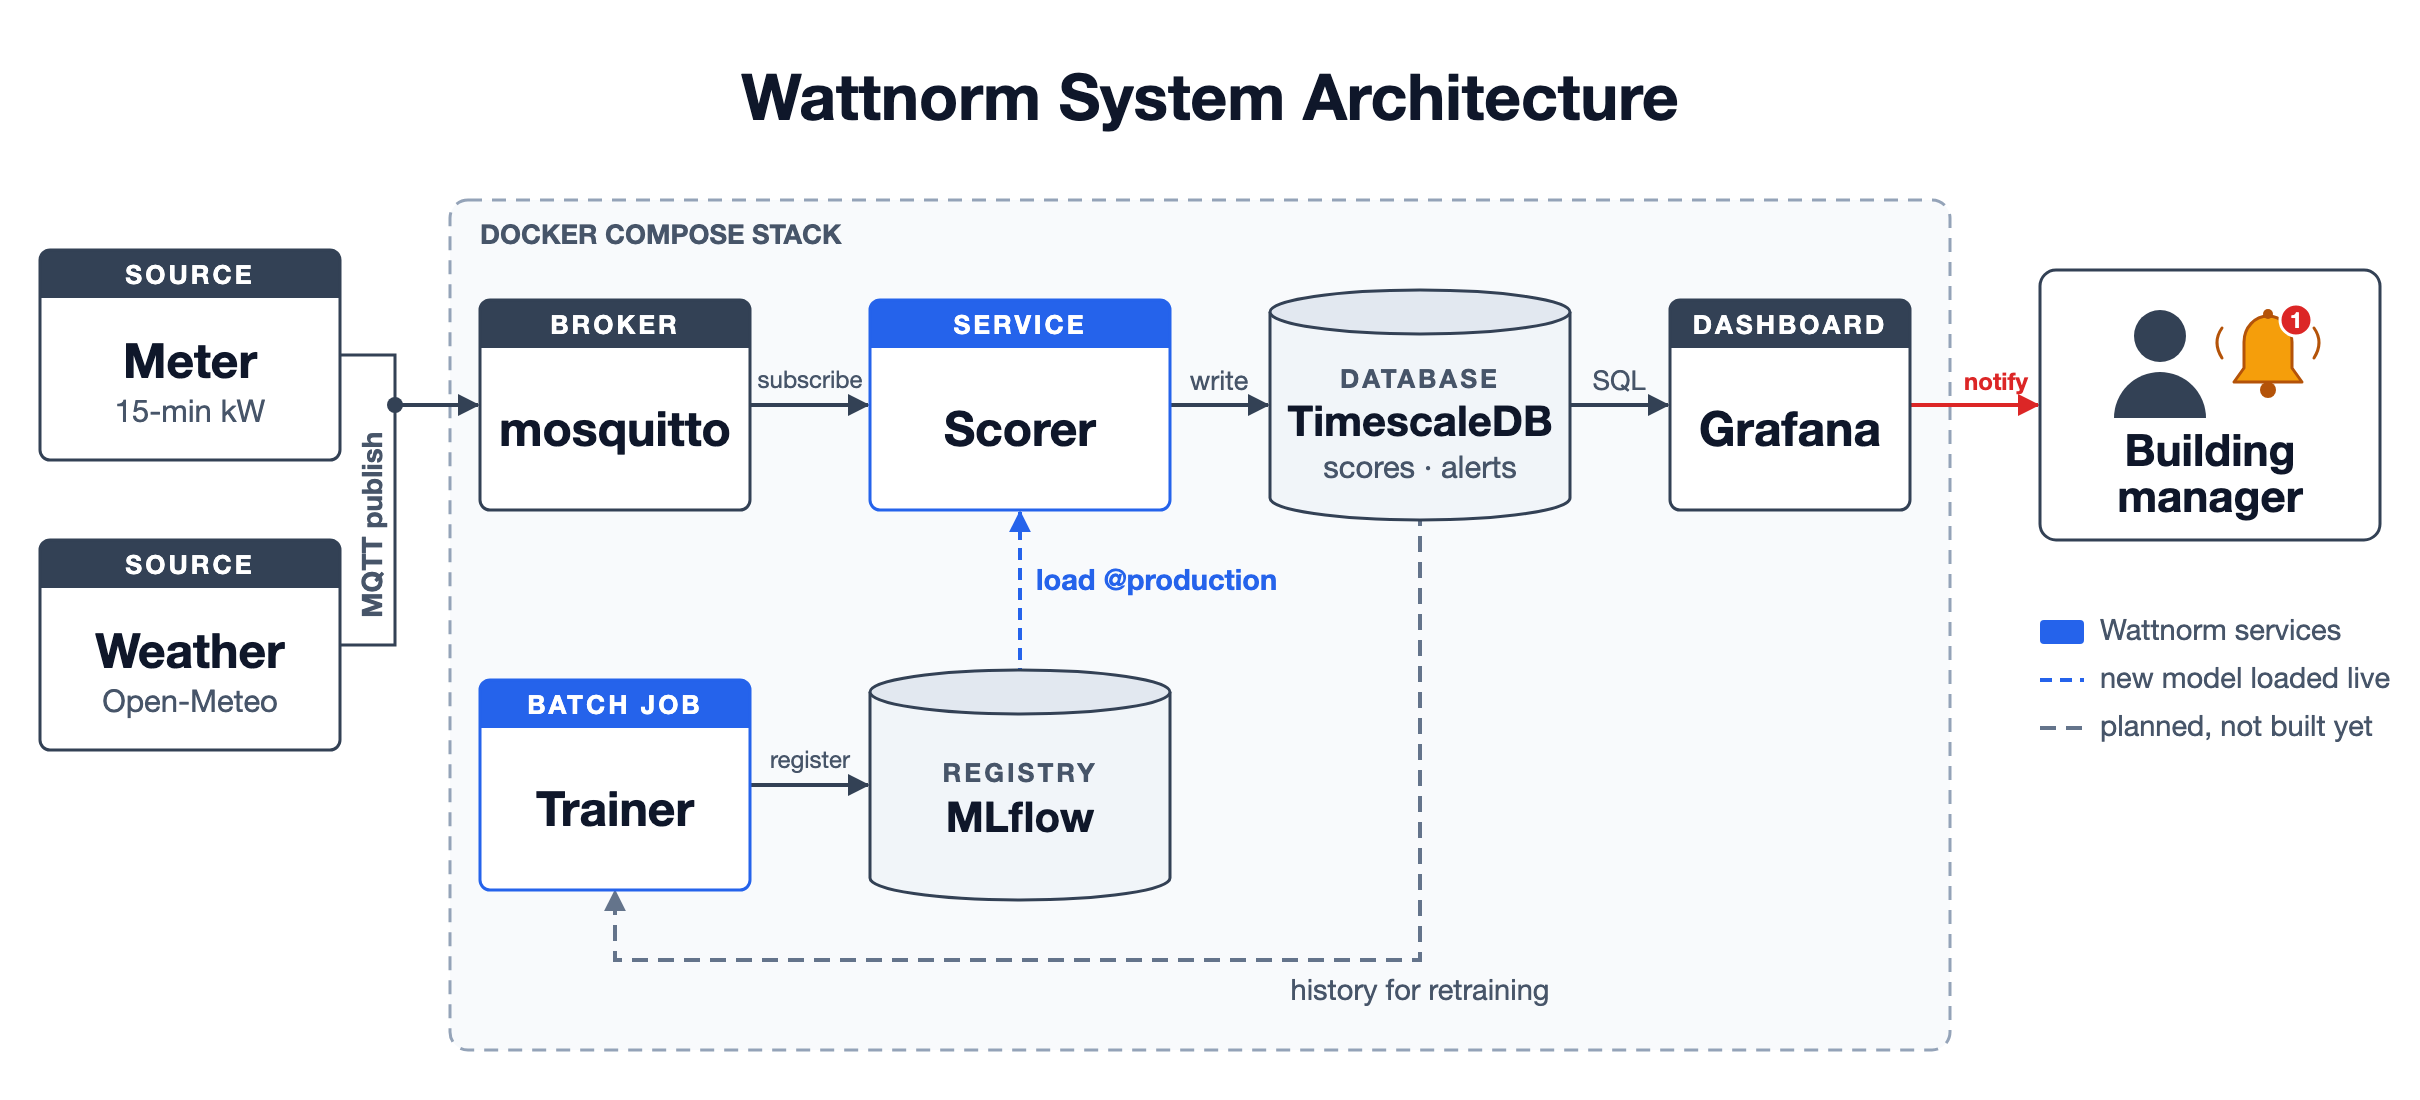
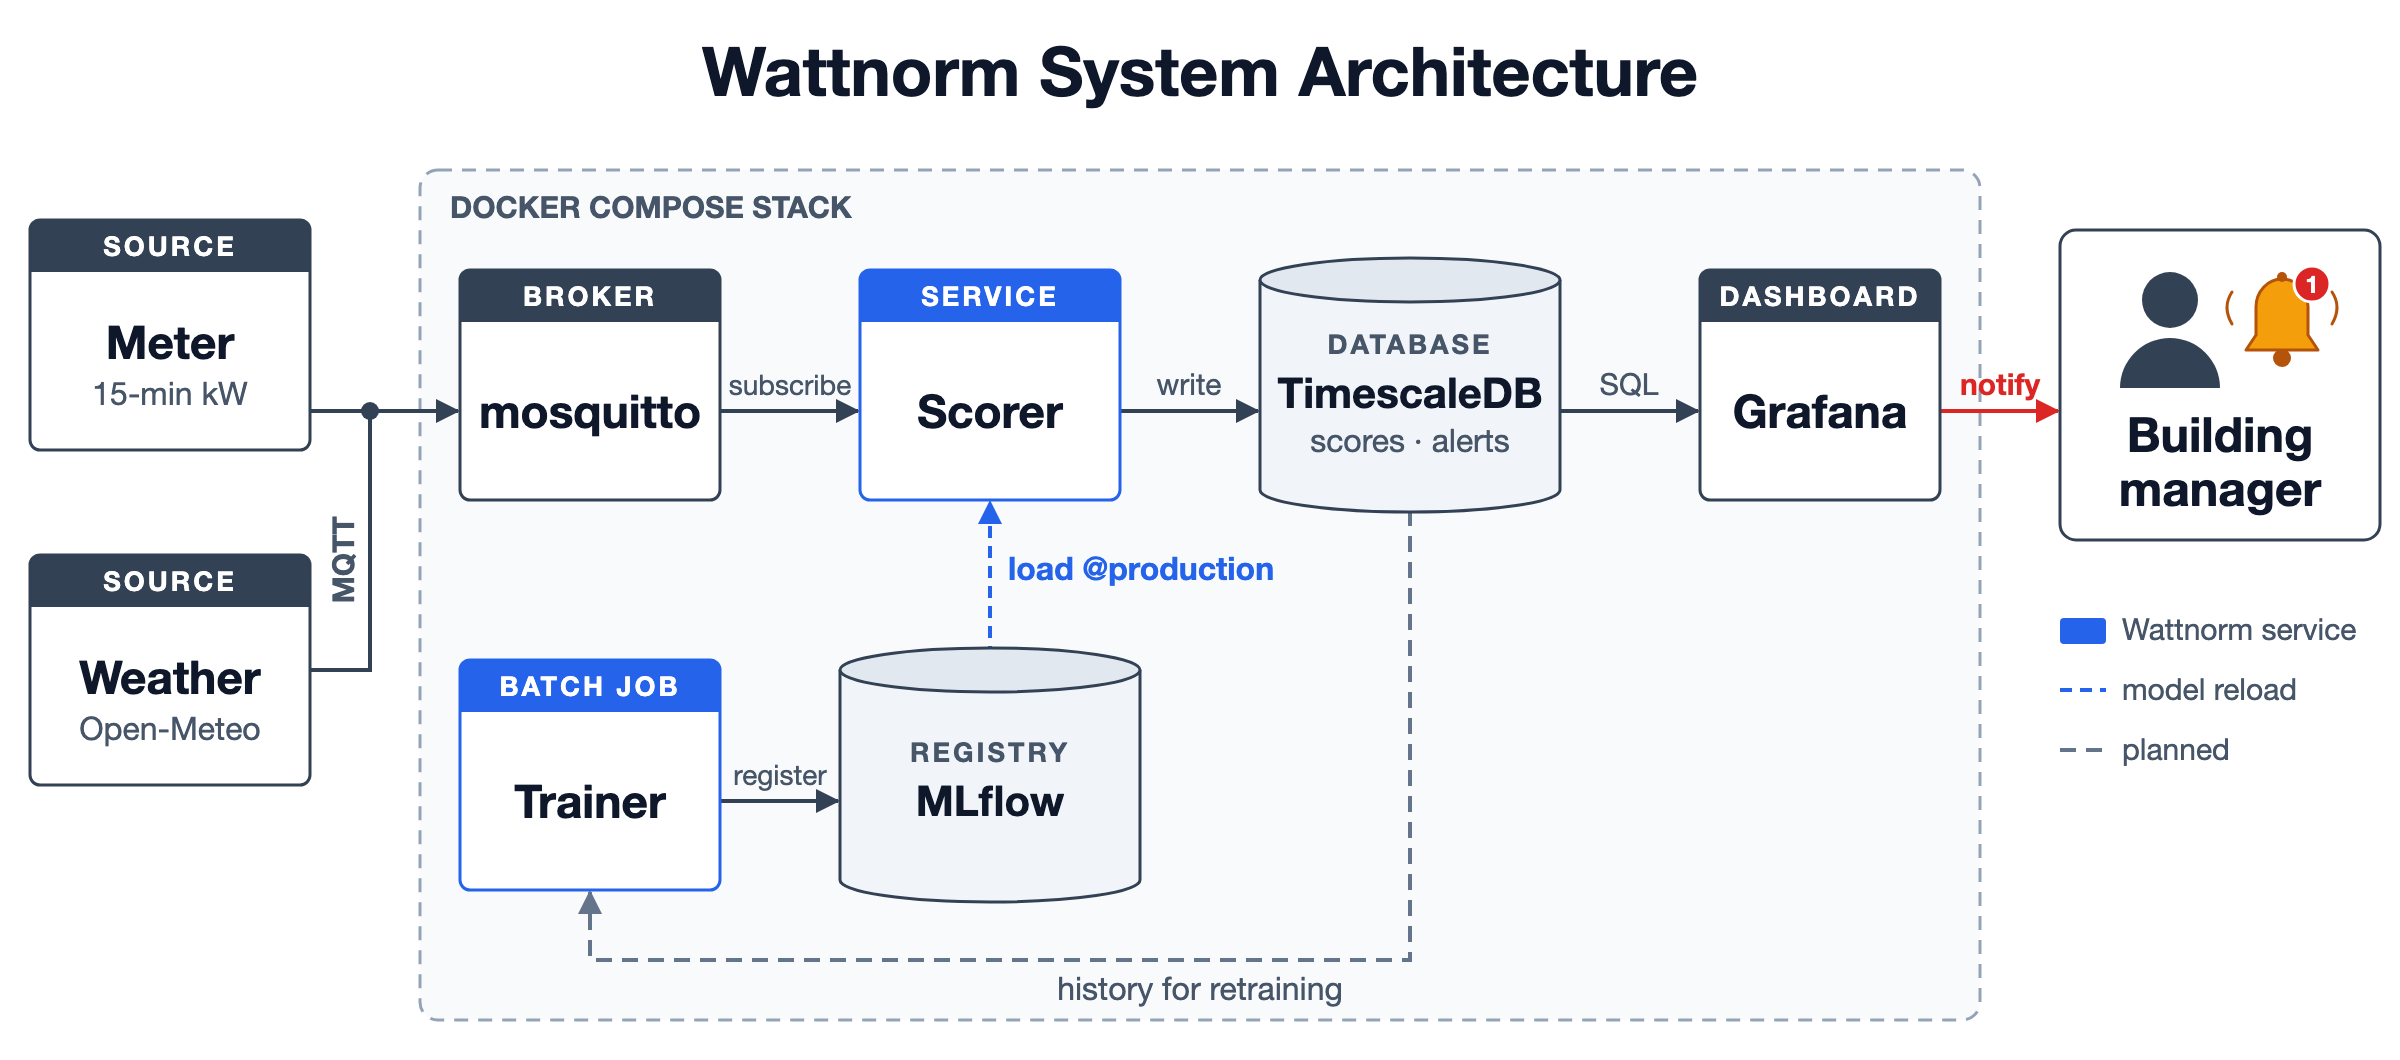
docs: streamline README, larger architecture diagram text

diff --git a/README.md b/README.md
@@ -1,83 +1,33 @@
 # Wattnorm — real-time contextual energy anomaly detection for buildings
 
-Buildings account for roughly a third of global energy use, and a large share of that is wasted
-quietly: an air-handling unit left running over a weekend, a lighting schedule that never switched
-back after a holiday, a chiller cycling against a failed sensor. A meter records all of it, but a
-raw reading cannot say whether 280 kW is a problem — at 2 p.m. on a hot July weekday it is normal,
-at 2 a.m. on a Sunday in April it is not. An anomaly is a reading that is unusual *for its context*:
-the time, the day, the season, the weather.
+Buildings account for roughly a third of global energy use, and much of it is wasted quietly: an
+air-handling unit left running over a weekend, a lighting schedule that never switched back after a
+holiday, a chiller cycling against a failed sensor. A raw meter reading cannot say whether 280 kW is
+a problem — at 2 p.m. on a hot July weekday it is normal, at 2 a.m. on a Sunday in April it is not.
 
-Wattnorm is a complete, deployable system built on that idea (the Python package is `smartbuilding`), developed on six years of
-15-minute electricity data from a university research building. It learns what the building
-*should* draw for the current time and weather, scores every meter reading against that
-expectation as it arrives, and raises direction-aware alerts on a Grafana dashboard — **too high =
-waste, too low = failure** — with the avoidable energy translated to CO₂e and cost so that a
-building manager, not a data scientist, can act on it. Historical data is replayed through the
-live pipeline today; a real meter publishes the same message format tomorrow.
-
-It builds on work from my master's research at Western University, published as
-[*An ensemble learning framework for anomaly detection in building energy consumption*](https://www.sciencedirect.com/science/article/pii/S0378778817306904)
-(Araya, Grolinger, ElYamany, Capretz and Bitsuamlak, *Energy and Buildings* 144, 2017). That paper
-introduced CCAD-SW, a pattern-based classifier that scores overlapping sliding windows of
-consumption with an autoencoder, and combined it with two prediction-based classifiers (support
-vector regression and random forest) in a majority-vote ensemble that, on real consumption data from
-a building in Brampton, Ontario, raised the sensitivity of CCAD-SW by 3.6 % and cut its false-alarm
-rate by 2.7 %. This system takes the prediction-based branch of that framework as its core
-and adds what a paper does not need but a deployment does: calibrated bands, adaptation to a
-building that changes, a promotion gate, and a dashboard.
-
-The methodology, data work, evaluation and the defects found along the way are written up in full
-in [`docs/writeup.md`](docs/writeup.md).
+Wattnorm learns what a building *should* draw for the current time and weather, scores every
+15-minute meter reading against that expectation as it arrives, and raises direction-aware alerts on
+a Grafana dashboard — **too high = waste, too low = failure** — with the avoidable energy expressed
+in kWh, CO₂e and cost so that a building manager, not a data scientist, can act on it. It was
+developed on six years of data from a university research building. Historical data is replayed
+through the live pipeline today; a real meter publishes the same message format tomorrow.
 
 <img src="docs/img/dashboard.png" alt="Building Energy Anomalies dashboard — two weeks of real meter data, January 2020" width="100%">
 
-*Real 15-min meter data replayed through the live pipeline (no synthetic values). Blue = metered demand;
-orange dashed = expected demand for that time and weather, adjusted for the building's recent level;
-shaded band = the 90 % normal range; red = alerts. Below: the residual in σ and the CUSUM that
-catches sustained deviations.*
+*Two weeks of real meter data replayed through the live pipeline. Blue: metered demand · orange
+dashed: expected demand · shaded: 90 % normal range · red: alerts. Lower panels: residual in σ and
+the CUSUM that catches sustained deviations.*
 
 <img src="docs/img/tiles.png" alt="Sustainability tiles" width="100%">
 
-*Excess energy recorded on HIGH alerts that started in the selected range, times the grid emission
-factor and tariff (both editable on the dashboard — the defaults are placeholders). Readings outside an
-alert are not counted, so a normal building reads zero.*
+*Excess energy on HIGH alerts, converted with the grid emission factor and tariff (both editable on
+the dashboard; the defaults are placeholders). A normal building reads zero.*
 
-## How it works
+## Architecture
 
-<img src="docs/img/architecture.svg" alt="Architecture — meter and weather over MQTT into the scorer, TimescaleDB and Grafana; trainer and MLflow registry feed the model" width="100%">
+<img src="docs/img/architecture.svg" alt="Wattnorm system architecture — meter and weather over MQTT into the scorer, TimescaleDB and Grafana; trainer and MLflow registry supply the model" width="100%">
 
-- **Model** — LightGBM quantile regression (q05/q50/q95) on calendar (cyclic time-of-day, weekday,
-  day-of-year, holidays) and weather (temperature, humidity, wind, pressure, heating/cooling degrees).
-  No demand lags: the model answers *what should this building draw now*, so a sustained anomaly
-  never becomes "normal" within hours.
-- **Band** — one scalar calibration so the band covers 90 % of ordinary readings; a slow level
-  tracker (3-day half-life, robust to anomalies) follows genuine regime changes.
-- **Rules** — `SPIKE` (one reading > 5σ), `SUSTAINED_HIGH/LOW` (CUSUM), `STUCK` (2 h identical).
-  Each alert carries observed vs expected kW, excess kWh → CO₂e/$, and the top-3 SHAP drivers of the
-  expectation.
-- **Evaluation without labels** — six anomaly types injected into a held-out year, event-level
-  recall / false alarms per week / time-to-detect, against a seasonal-naive baseline sharing the
-  same rules. Splits are strictly temporal: train 2016–17 · calibrate 2018 · test 2019 · replay
-  2020-01 → 2021-05.
-- **Operations** — MLflow registry with a promotion gate, scorer hot-swap, trailing-window retrain
-  (`make retrain`, cron-able), one Grafana dashboard whose health row is plain SQL on the `scores`
-  table. `/health` reports the model version and the rules it is running.
-
-## Terms used above
-
-- **Quantile regression** — a model that predicts a chosen percentile of demand (here the 5th, 50th and 95th) instead of only the average, so it gives a range as well as a central estimate.
-- **Band / coverage** — the range between the 5th and 95th percentile predictions, scaled so that 90 % of ordinary readings fall inside it; coverage is the share that actually does.
-- **Residual and σ** — the gap between the metered and expected demand, expressed in units of the band's half-width so that "3σ" means the same thing in summer and winter.
-- **Level tracker** — a slow-moving estimate of how far the building's baseline has shifted from the model's expectation, so a permanent change in occupancy does not look like a permanent anomaly.
-- **CUSUM** — a running sum of the residual that grows while demand stays on one side of expectation and resets otherwise; it catches small but persistent deviations that no single reading would.
-- **SHAP drivers** — the features (hour, temperature, weekday …) that contributed most to the expected value for that reading, used to explain each alert.
-- **Seasonal-naive baseline** — the simplest competitor: expected demand equals the reading one week earlier at the same time.
-- **Recall / false alarms per week** — the share of injected anomalies the detector catches, and how many alerts it raises on data with no anomaly injected.
-- **MQTT** — a lightweight publish/subscribe messaging protocol widely used by meters and IoT gateways.
-- **TimescaleDB** — PostgreSQL with time-series extensions, so Grafana queries it with plain SQL.
-- **MLflow registry / hot-swap** — MLflow stores each trained model with its metrics under a version and an alias (`@staging`, `@production`); the scorer can load a newly promoted version without restarting.
-
-## Run it
+## Quick start
 
 ```
 make setup      # uv sync + pre-commit
@@ -91,8 +41,17 @@ make retrain    # trailing-window retrain with promotion gate  (AS_OF=YYYY-MM-DD
 make figures    # regenerate docs/img/fig*.png and numbers.json from the stack's model and database
 ```
 
-Grafana http://localhost:3000 (view without login; admin/admin to edit) · MLflow http://localhost:5001 ·
-scorer http://localhost:8001/health
+| Service | URL |
+|---|---|
+| Grafana | http://localhost:3000 (view without login; admin/admin to edit) |
+| MLflow | http://localhost:5001 |
+| Scorer health | http://localhost:8001/health |
+
+## Connecting a real meter
+
+Publish `{"meter_id": "...", "ts": "<ISO-8601 with offset>", "kw": <float>}` to
+`building/<meter_id>/demand` (QoS 1) and weather to `weather/<station_id>/obs`. Nothing downstream
+changes; the broker and database are `.env` settings.
 
 ## Data
 
@@ -103,14 +62,26 @@ features are computed in `America/New_York`. The data are not redistributed with
 
 > Cornell University, Facilities and Campus Services — Energy and Sustainability. *Energy Management and Control System (EMCS) Portal*, Clark Hall electric demand, 15-minute interval, January 2015 – May 2021. https://portal.emcs.cornell.edu (accessed 2022 for the original study; re-used here). Data are the property of Cornell University and are used for research and educational purposes.
 
-Weather is the Open-Meteo ERA5 archive for the building's location (`make weather`). Design, phases and
-decisions: `docs/PLAN.md`. Operating guide for building managers: `docs/runbook.md`.
+Weather is the Open-Meteo ERA5 archive for the building's location (`make weather`).
 
-## Connecting a real meter
+## Research background
 
-Publish `{"meter_id": "...", "ts": "<ISO-8601 with offset>", "kw": <float>}` to
-`building/<meter_id>/demand` (QoS 1) and weather to `weather/<station_id>/obs`. Nothing downstream
-changes; the broker and database are `.env` settings.
+Wattnorm builds on my master's research at Western University, published as
+[*An ensemble learning framework for anomaly detection in building energy consumption*](https://www.sciencedirect.com/science/article/pii/S0378778817306904)
+(Araya, Grolinger, ElYamany, Capretz and Bitsuamlak, *Energy and Buildings* 144, 2017). The paper
+combined CCAD-SW, a pattern-based autoencoder classifier over sliding windows, with support vector
+regression and random forest predictors in a majority-vote ensemble that, on data from a building in
+Brampton, Ontario, raised CCAD-SW's sensitivity by 3.6 % and cut its false-alarm rate by 2.7 %.
+Wattnorm takes the prediction-based branch as its core and adds what a deployment needs: calibrated
+bands, adaptation to a building that changes, a promotion gate, and a dashboard.
+
+## Documentation
+
+- [`docs/writeup.md`](docs/writeup.md) — methodology, data work, evaluation, and the defects found along the way
+- [`docs/runbook.md`](docs/runbook.md) — operating guide for building managers
+- [`docs/PLAN.md`](docs/PLAN.md) — design, phases and decisions
+
+The Python package is `smartbuilding` (`src/smartbuilding/`).
 
 ## License
 
